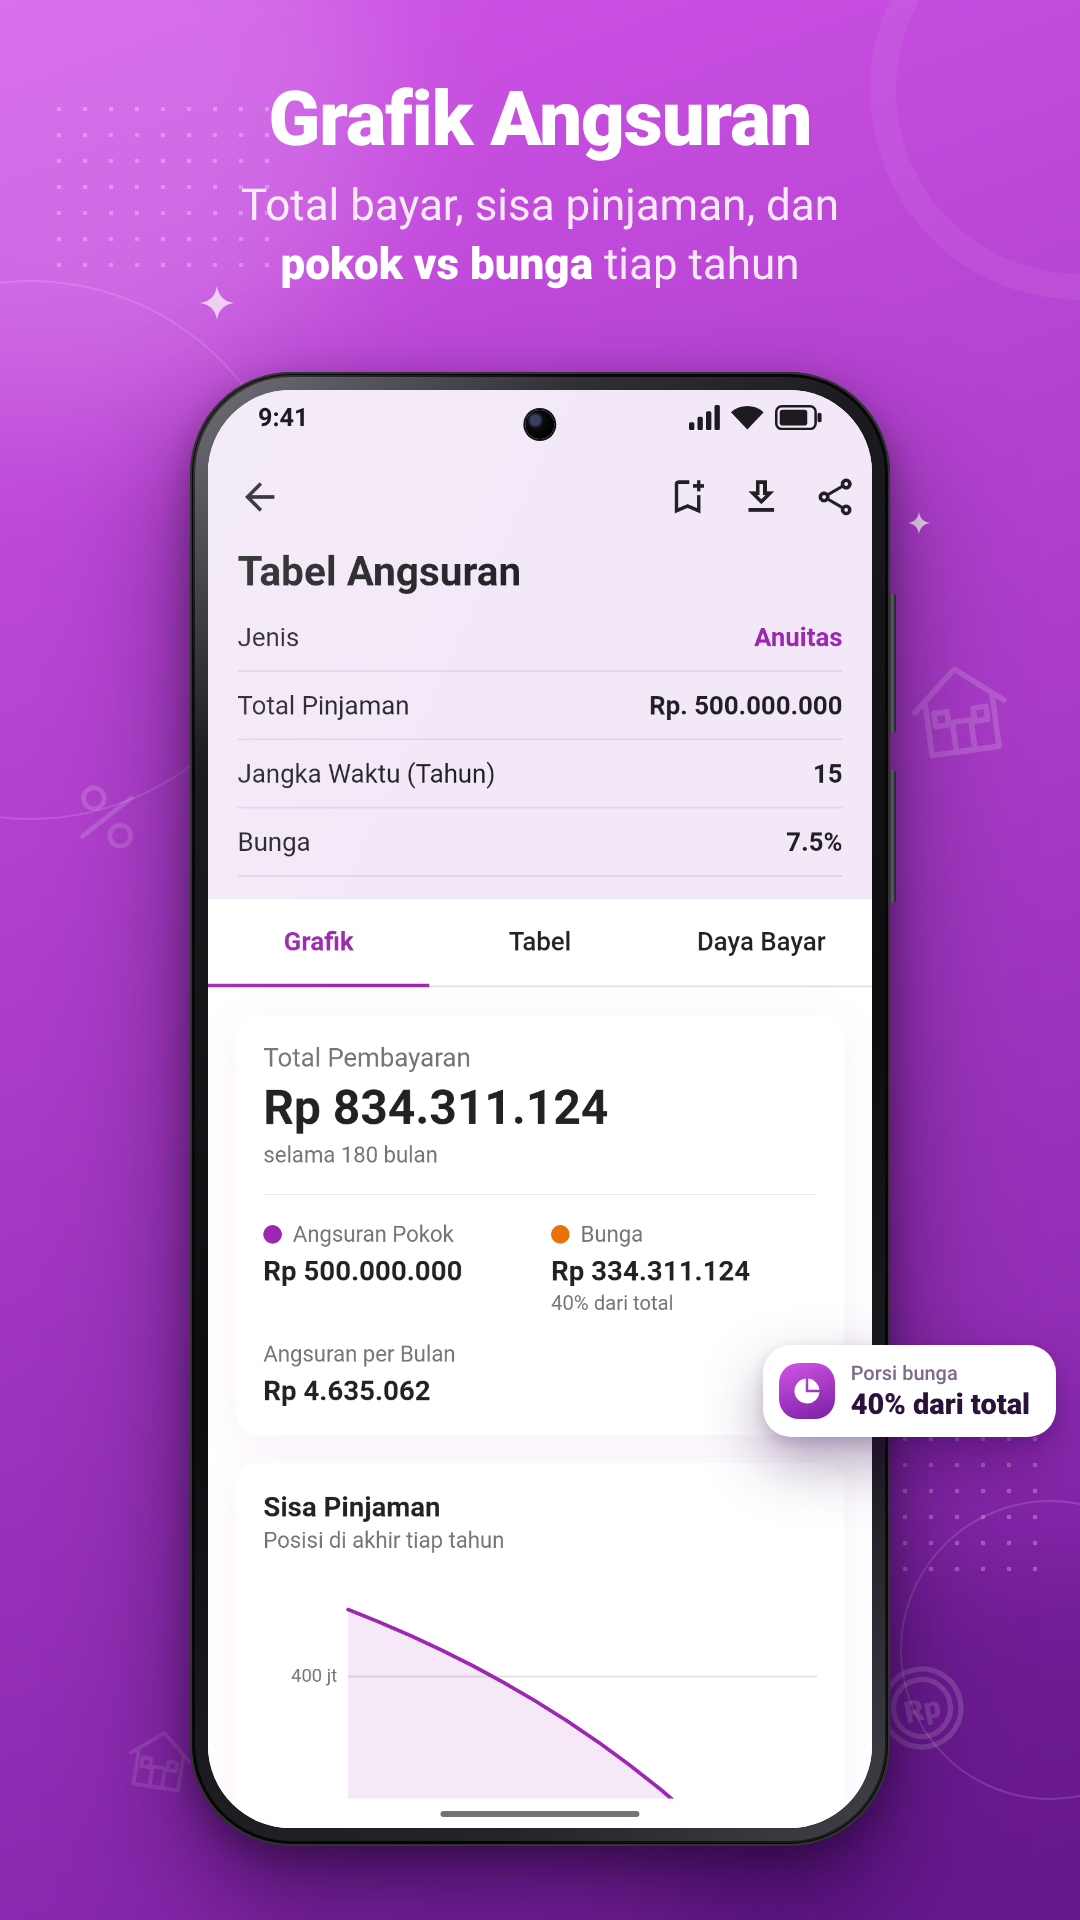
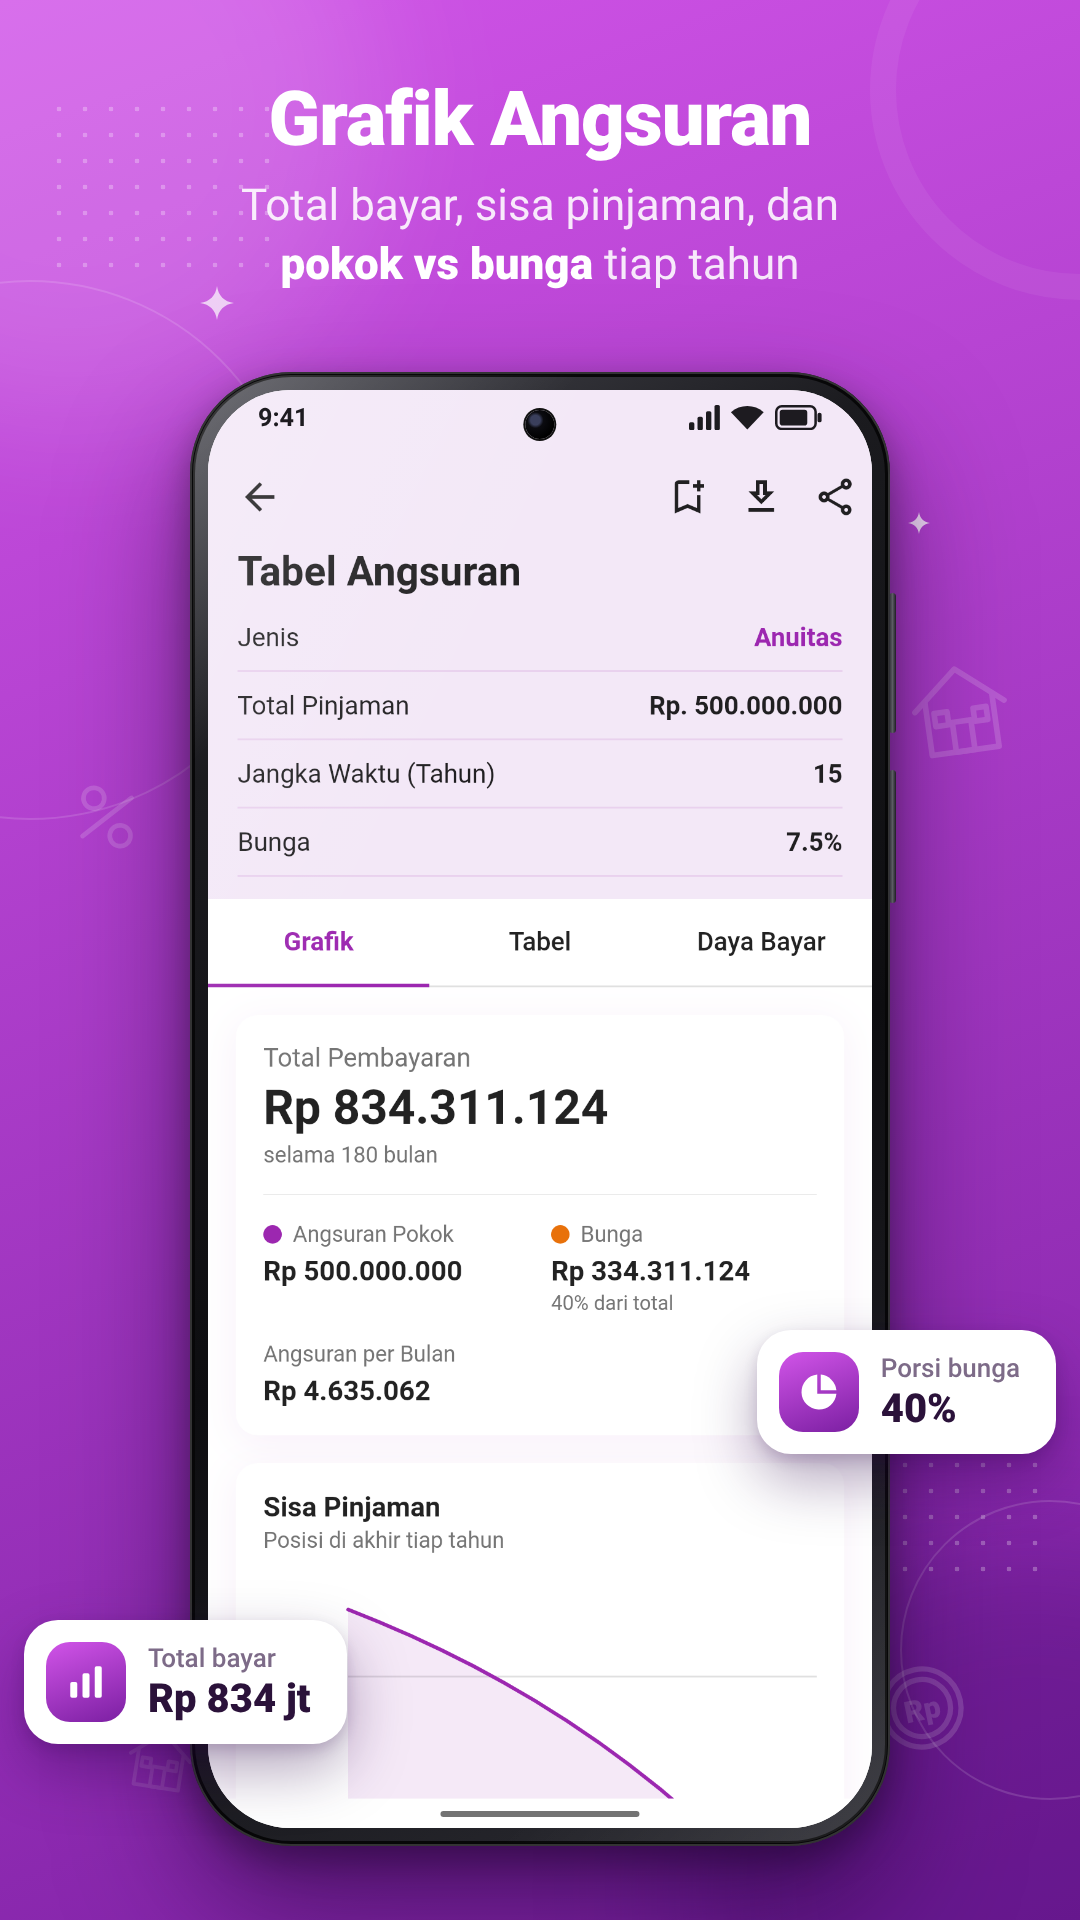
chore: kartu melayang aset store lebih besar, dua per slide
Claude-Session: https://claude.ai/code/session_01YQzyrGfQwytNAYgmm4mQM1

Changed region(s): [[0.0, 0.8438, 0.3361, 0.9375], [0.7028, 0.6875, 0.9778, 0.7812]]

diff --git a/store/source/gen.py b/store/source/gen.py
@@ -29,15 +29,15 @@ h1 { font-weight: 900; line-height: 1.05; letter-spacing: -1px; }
 .hl { color: #fff; font-weight: 900; }
 
 /* ---------- kartu melayang ---------- */
-.float { position: absolute; z-index: 6; display: flex; align-items: center; gap: 16px;
-  padding: 16px 26px 16px 16px; border-radius: 28px; background: #fff; color: #2b123a;
+.float { position: absolute; z-index: 6; display: flex; align-items: center; gap: 22px;
+  padding: 22px 36px 22px 22px; border-radius: 34px; background: #fff; color: #2b123a;
   box-shadow: 0 26px 60px rgba(40,0,70,.35), 0 6px 14px rgba(40,0,70,.15); }
-.float .ic { width: 56px; height: 56px; border-radius: 20px; flex: none;
+.float .ic { width: 80px; height: 80px; border-radius: 24px; flex: none;
   display: flex; align-items: center; justify-content: center;
   background: linear-gradient(160deg, #D154E8, #7B1FA2); }
-.float .ic svg { width: 30px; height: 30px; fill: #fff; }
-.float .t1 { font-size: 20px; color: #7d6b88; font-weight: 500; }
-.float .t2 { font-size: 29px; font-weight: 900; color: #2b123a; margin-top: 2px; }
+.float .ic svg { width: 42px; height: 42px; fill: #fff; }
+.float .t1 { font-size: 26px; color: #7d6b88; font-weight: 500; }
+.float .t2 { font-size: 40px; font-weight: 900; color: #2b123a; margin-top: 2px; }
 
 /* ---------- mockup HP ---------- */
 .phone { --w: 600px; position: absolute; width: var(--w);
@@ -162,35 +162,40 @@ intro = f"""
 </div>
 {phone('grafik', 580, 'left:430px;top:470px;z-index:2', 7)}
 {phone('home', 620, 'left:80px;top:420px;z-index:3', -5)}
-{floating('home', 'Angsuran per bulan', 'Rp 4.635.062', 'left:36px;top:1745px')}
-{floating('layers', 'Metode bunga', 'Anuitas · Efektif · Flat', 'right:36px;top:400px')}
+{floating('home', 'Angsuran per bulan', 'Rp 4.635.062', 'left:30px;top:1720px')}
+{floating('layers', 'Metode bunga', '3 pilihan', 'right:30px;top:380px')}
 """
 write('slide_01.html', page(1080, 1920, intro))
 
 # ------------------------------------------------------------- slide fitur
 FEATURES = [
     ('home', 'Tiga Metode Bunga', 'Anuitas, efektif, dan flat<br>cukup <b class="hl">satu ketukan</b>', [
-        ('layers', 'Pilih metode', 'Anuitas · Efektif · Flat', 'right:30px;top:600px'),
-        ('home', 'Angsuran per bulan', 'Rp 4.635.062', 'left:24px;top:1010px'),
+        ('home', 'Angsuran per bulan', 'Rp 4,6 jt', 'left:24px;top:1000px'),
+        ('layers', 'Pilih metode', '3 pilihan', 'right:24px;top:1560px'),
     ]),
     ('grafik', 'Grafik Angsuran', 'Total bayar, sisa pinjaman, dan<br><b class="hl">pokok vs bunga</b> tiap tahun', [
-        ('pie', 'Porsi bunga', '40% dari total', 'right:24px;top:1345px'),
+        ('chart', 'Total bayar', 'Rp 834 jt', 'left:24px;top:1620px'),
+        ('pie', 'Porsi bunga', '40%', 'right:24px;top:1330px'),
     ]),
     ('tabel', 'Tabel Angsuran', 'Rincian pokok, bunga, dan sisa<br>pinjaman <b class="hl">sampai lunas</b>', [
-        ('list', 'Rincian lengkap', '180 bulan', 'right:16px;top:1700px'),
+        ('list', 'Rincian lengkap', '180 bulan', 'left:24px;top:1560px'),
+        ('pie', 'Total bunga', 'Rp 334 jt', 'right:24px;top:1000px'),
     ]),
     ('daya_bayar', 'Cek Daya Bayar', 'Pastikan cicilan masih <b class="hl">aman</b><br>untuk penghasilan Anda', [
-        ('check', 'Rasio cicilan', '28,5% · Aman', 'right:24px;top:1450px'),
+        ('wallet', 'Sisa penghasilan', 'Rp 12,8 jt', 'left:24px;top:1700px'),
+        ('check', 'Rasio cicilan', '28,5% Aman', 'right:24px;top:1440px'),
     ]),
     ('advanced', 'Fix & Floating', 'Simulasi bunga fix, floating,<br>dan <b class="hl">bunga berjenjang</b>', [
-        ('percent', 'Bunga fix 3 tahun', '6,5%', 'right:24px;top:1205px'),
+        ('layers', 'Juga tersedia', 'Berjenjang', 'left:24px;top:1580px'),
+        ('percent', 'Bunga fix 3 tahun', '6,5%', 'right:24px;top:1190px'),
     ]),
     ('syariah', 'KPR Syariah', 'Akad <b class="hl">murabahah</b> &<br>musyarakah mutanaqisah', [
-        ('home', 'Angsuran tetap', 'Rp 6.050.000', 'right:24px;top:1210px'),
+        ('percent', 'Margin', '8% / tahun', 'left:24px;top:1700px'),
+        ('home', 'Angsuran tetap', 'Rp 6,05 jt', 'right:24px;top:1190px'),
     ]),
     ('riwayat', 'Simpan Riwayat', 'Simpan simulasi, bandingkan,<br>lalu <b class="hl">ekspor ke PDF</b>', [
-        ('save', 'Tersimpan', '3 simulasi', 'right:24px;top:600px'),
-        ('pdf', 'Bagikan', 'Ekspor ke PDF', 'left:30px;top:1660px'),
+        ('pdf', 'Bagikan', 'Ekspor PDF', 'left:24px;top:1640px'),
+        ('save', 'Tersimpan', '3 simulasi', 'right:24px;top:580px'),
     ]),
 ]
 for i, (shot, title, sub, floats) in enumerate(FEATURES, start=2):
